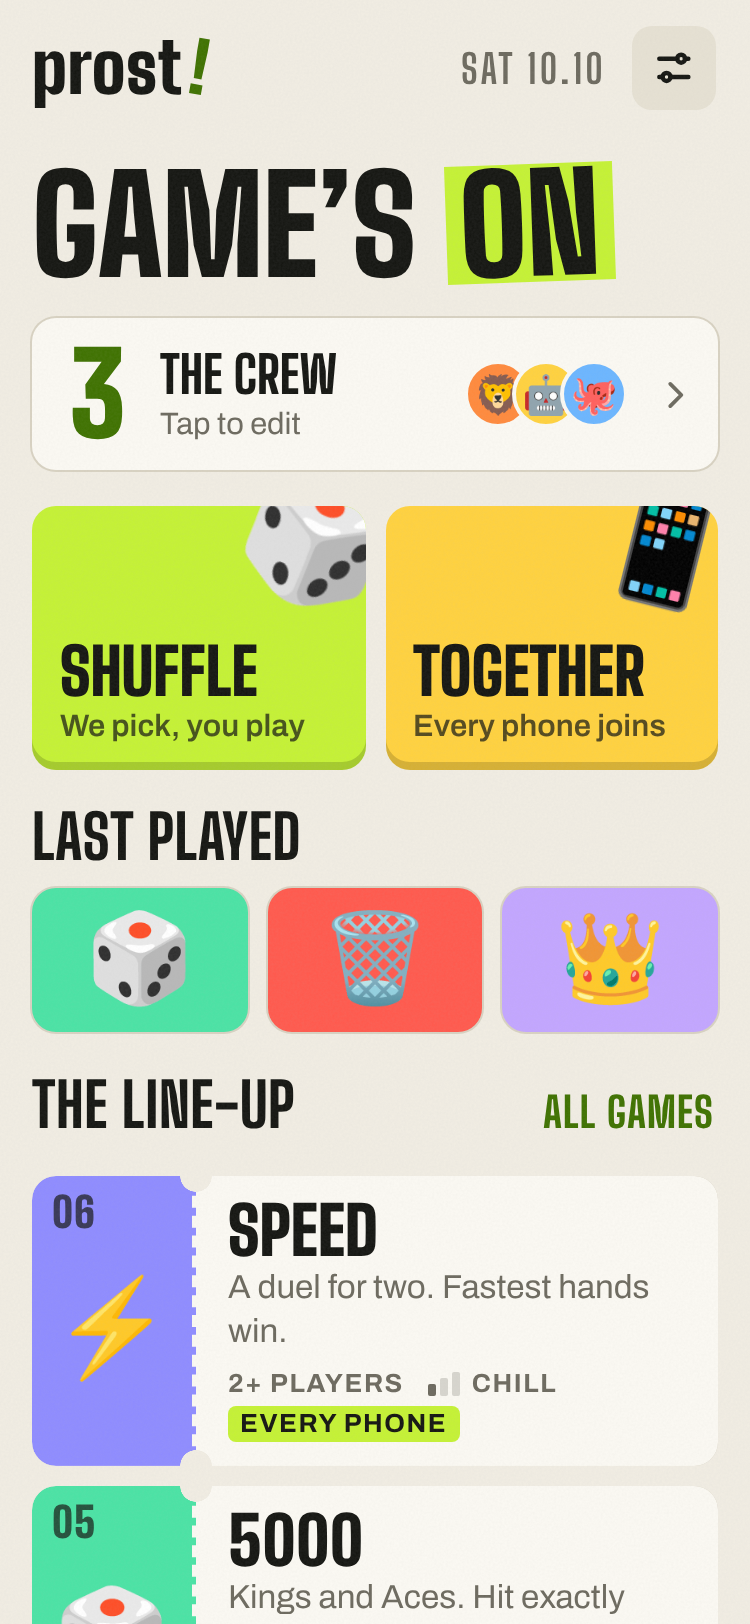
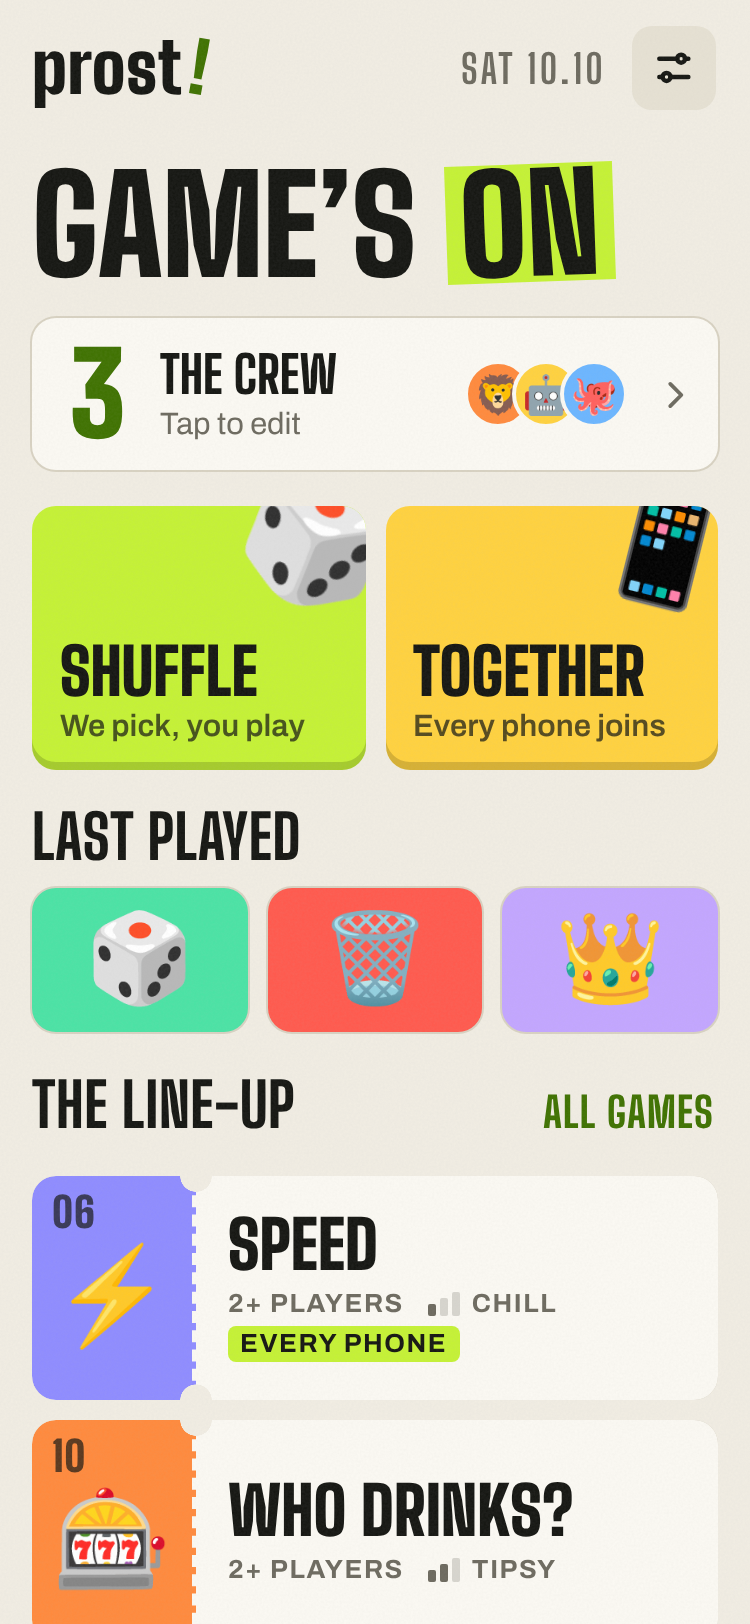
Home: the line-up shows the games without their one-line descriptions
Claude-Session: https://claude.ai/code/session_012V2LcTTs5UNWAkt63McFeS

Changed region(s): [[0.3067, 0.7389, 0.8587, 1.0], [0.0307, 0.7697, 0.276, 1.0]]

diff --git a/src/components/GameCard.tsx b/src/components/GameCard.tsx
@@ -11,7 +11,16 @@ export function gameNumber(game: GameDefinition) {
 }
 
 /** A game as a ticket: coloured stub with its number, perforation, then the details. */
-export default function GameCard({ game, onOpen }: { game: GameDefinition; onOpen: () => void }) {
+export default function GameCard({
+  game,
+  onOpen,
+  tagline = true,
+}: {
+  game: GameDefinition;
+  onOpen: () => void;
+  /** The one-line description under the name (the home screen leaves it out). */
+  tagline?: boolean;
+}) {
   const soon = !game.component && !game.online;
   const players = playerRange(game);
   return (
@@ -31,7 +40,7 @@ export default function GameCard({ game, onOpen }: { game: GameDefinition; onOpe
       </span>
       <span className="ticket-body">
         <span className="ticket-name">{t(game.name)}</span>
-        <span className="ticket-tagline">{t(game.tagline)}</span>
+        {tagline && <span className="ticket-tagline">{t(game.tagline)}</span>}
         <span className="ticket-meta">
           <span>{t('{n} players', { n: players })}</span>
           <Intensity level={game.intensity} showLabel />

diff --git a/src/screens/Home.tsx b/src/screens/Home.tsx
@@ -161,7 +161,7 @@ export default function Home() {
         </div>
         <div className="ticket-list">
           {featured.map((g) => (
-            <GameCard key={g.id} game={g} onOpen={() => navigate(paths.game(g.id))} />
+            <GameCard key={g.id} game={g} tagline={false} onOpen={() => navigate(paths.game(g.id))} />
           ))}
         </div>
       </section>
